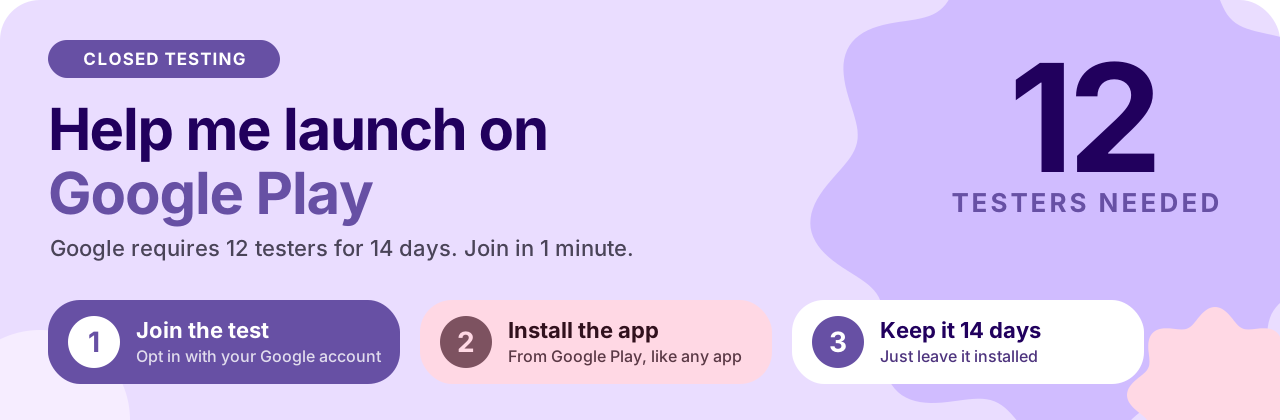
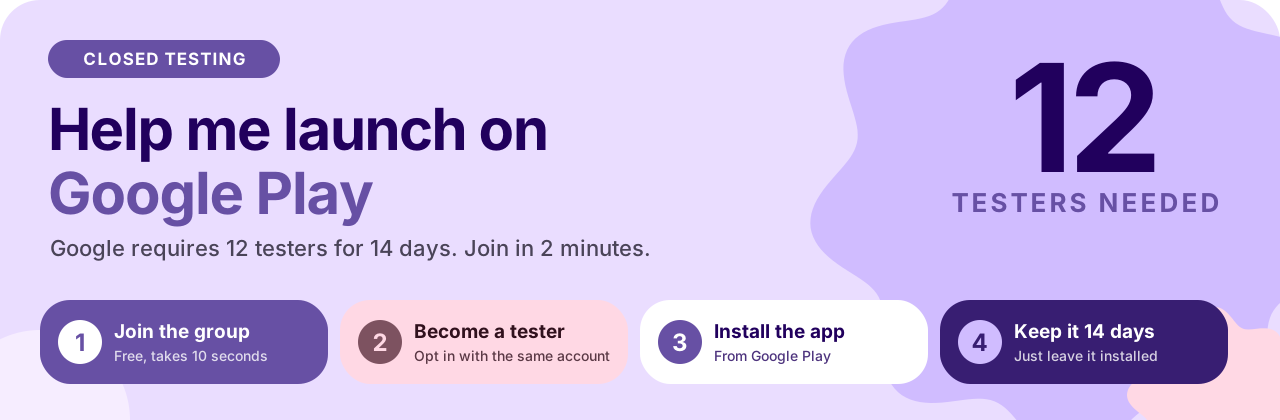
New version fixed readme for testers

Changed region(s): [[0.0312, 0.7119, 0.9688, 0.9286], [0.4062, 0.5571, 0.5, 0.619]]

diff --git a/README.md b/README.md
@@ -2,6 +2,47 @@
 
 > A beautiful Android app that sets a new Bible verse as your lock screen wallpaper every day.
 
+[![Google Play – join the test](https://img.shields.io/badge/Google%20Play-Join%20the%20test-6750A4?style=for-the-badge&logo=googleplay&logoColor=white)](https://groups.google.com/g/biblelockscreen-testers)
+[![IzzyOnDroid](https://img.shields.io/badge/IzzyOnDroid-Get%20it-FFD8E4?style=for-the-badge&logo=android&logoColor=31111D&labelColor=FFD8E4&color=FFD8E4)](https://apt.izzysoft.de/packages/com.daklok.biblelockscreen)
+[![F-Droid](https://img.shields.io/badge/F--Droid-Get%20it-EADDFF?style=for-the-badge&logo=fdroid&logoColor=21005D&labelColor=EADDFF&color=EADDFF)](https://f-droid.org/packages/com.daklok.biblelockscreen)
+
+</div>
+
+---
+
+<div align="center">
+
+<a href="https://groups.google.com/g/biblelockscreen-testers">
+  <img src=".github/images/testers-banner.png" alt="Help me launch on Google Play - 12 testers needed" width="100%">
+</a>
+
+</div>
+
+## 🙏 Help me launch on Google Play - testers needed!
+
+Bible Lock Screen is already available on **F-Droid** and **IzzyOnDroid**, and now I'm bringing it to **Google Play** too.
+Google requires every new app to pass a **closed test with at least 12 testers for 14 days** before it can be published, and that's where you come in.
+
+It costs you nothing, takes about two minutes, and you don't need to do anything else afterwards.
+
+### How to become a tester
+
+| | Step | |
+| :-: | --- | --- |
+| **1** | **Join the tester group** – open the link and tap *Join group* with the **same Google account you use on your phone's Play Store**. This is required, otherwise the test page says you're not invited. | [👉 Join the group](https://groups.google.com/g/biblelockscreen-testers) |
+| **2** | **Become a tester** – once you're in the group, open the test page and tap *Become a tester*. | [👉 Become a tester](https://play.google.com/apps/testing/com.daklok.biblelockscreen) |
+| **3** | **Install the app** – download it from Google Play, just like any other app. | [👉 Open on Google Play](https://play.google.com/store/apps/details?id=com.daklok.biblelockscreen) |
+| **4** | **Keep it installed for 14 days.** That's it, opening it now and then is a bonus! 💜 | |
+
+> [!TIP]
+> If the test page still says you're not invited, make sure you joined the group with the same Google account as on your phone, then wait a few minutes and try again.
+
+> [!NOTE]
+> 🇸🇰 **Po slovensky:** Hľadám 12 testerov na zverejnenie aplikácie v Google Play. Stačí sa pridať do Google skupiny, stať sa testerom, nainštalovať aplikáciu a nechať ju nainštalovanú 14 dní. Ďakujem! 🙏
+
+Thank you so much, every single tester gets this app one step closer to more people. ❤
+
+---
 
 <p align="center">
   <a href="https://apt.izzysoft.de/packages/com.daklok.biblelockscreen">
